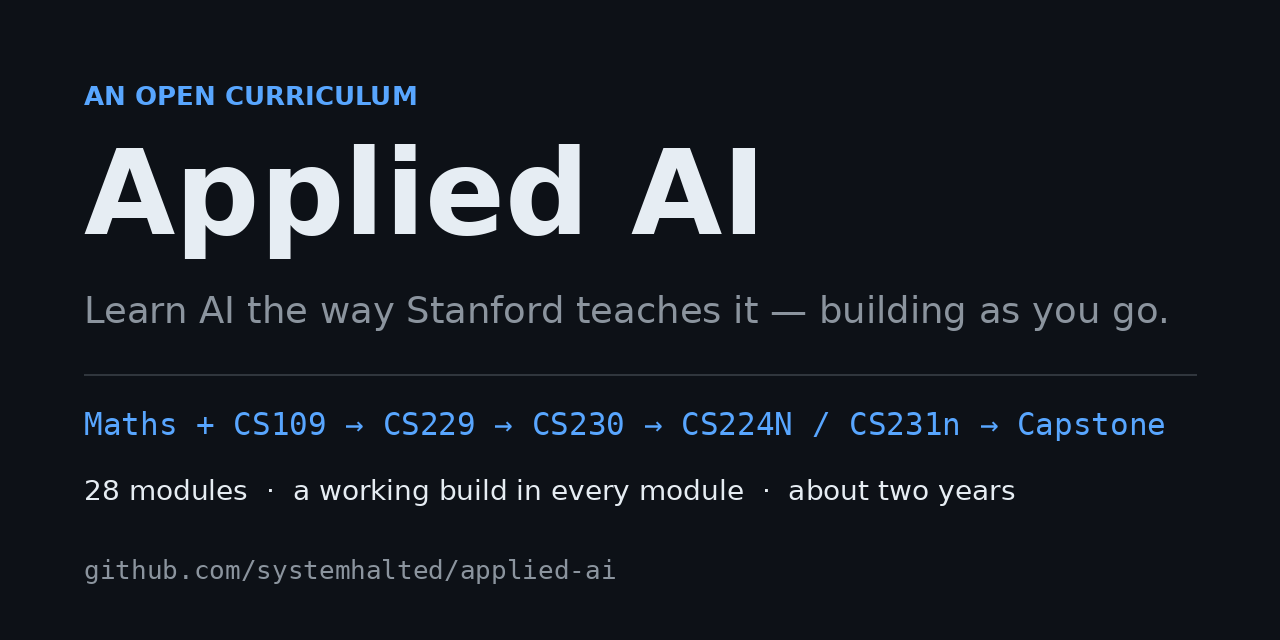
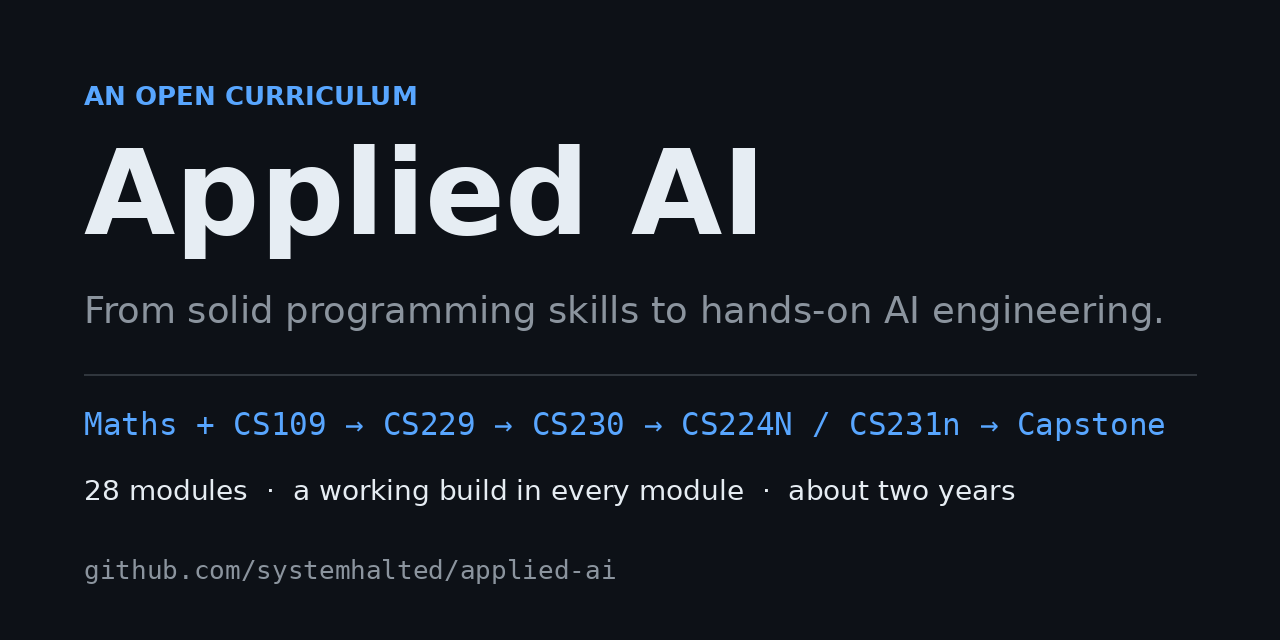
Rework tagline: plainer wording in README and social preview

Changed region(s): [[0.0625, 0.4688, 0.9062, 0.5312]]

diff --git a/README.md b/README.md
@@ -4,7 +4,7 @@
 ![PRs Welcome](https://img.shields.io/badge/PRs-welcome-brightgreen.svg)
 ![Modules](https://img.shields.io/badge/modules-28-orange.svg)
 
-> Learn AI the way Stanford teaches it — one course spine, a working build in every module, and honest pacing for people with jobs and lives.
+> From solid programming skills to hands-on AI engineering — one course spine, a working build in every module, and honest pacing for people with jobs and lives.
 
 Applied AI is a free, self-paced curriculum for going from solid programming skills to credible, hands-on AI engineering. It follows a single spine of world-class courses — **Imperial College mathematics + Stanford CS109 → Stanford CS229 → CS230 → CS224N or CS231n → a capstone system** — and requires you to build something real at every step. One cost caveat: the required Imperial College graded assignments sit behind Coursera's subscription; the [FAQ](FAQ.md) covers audit limits, financial aid, and a free substitute.
 